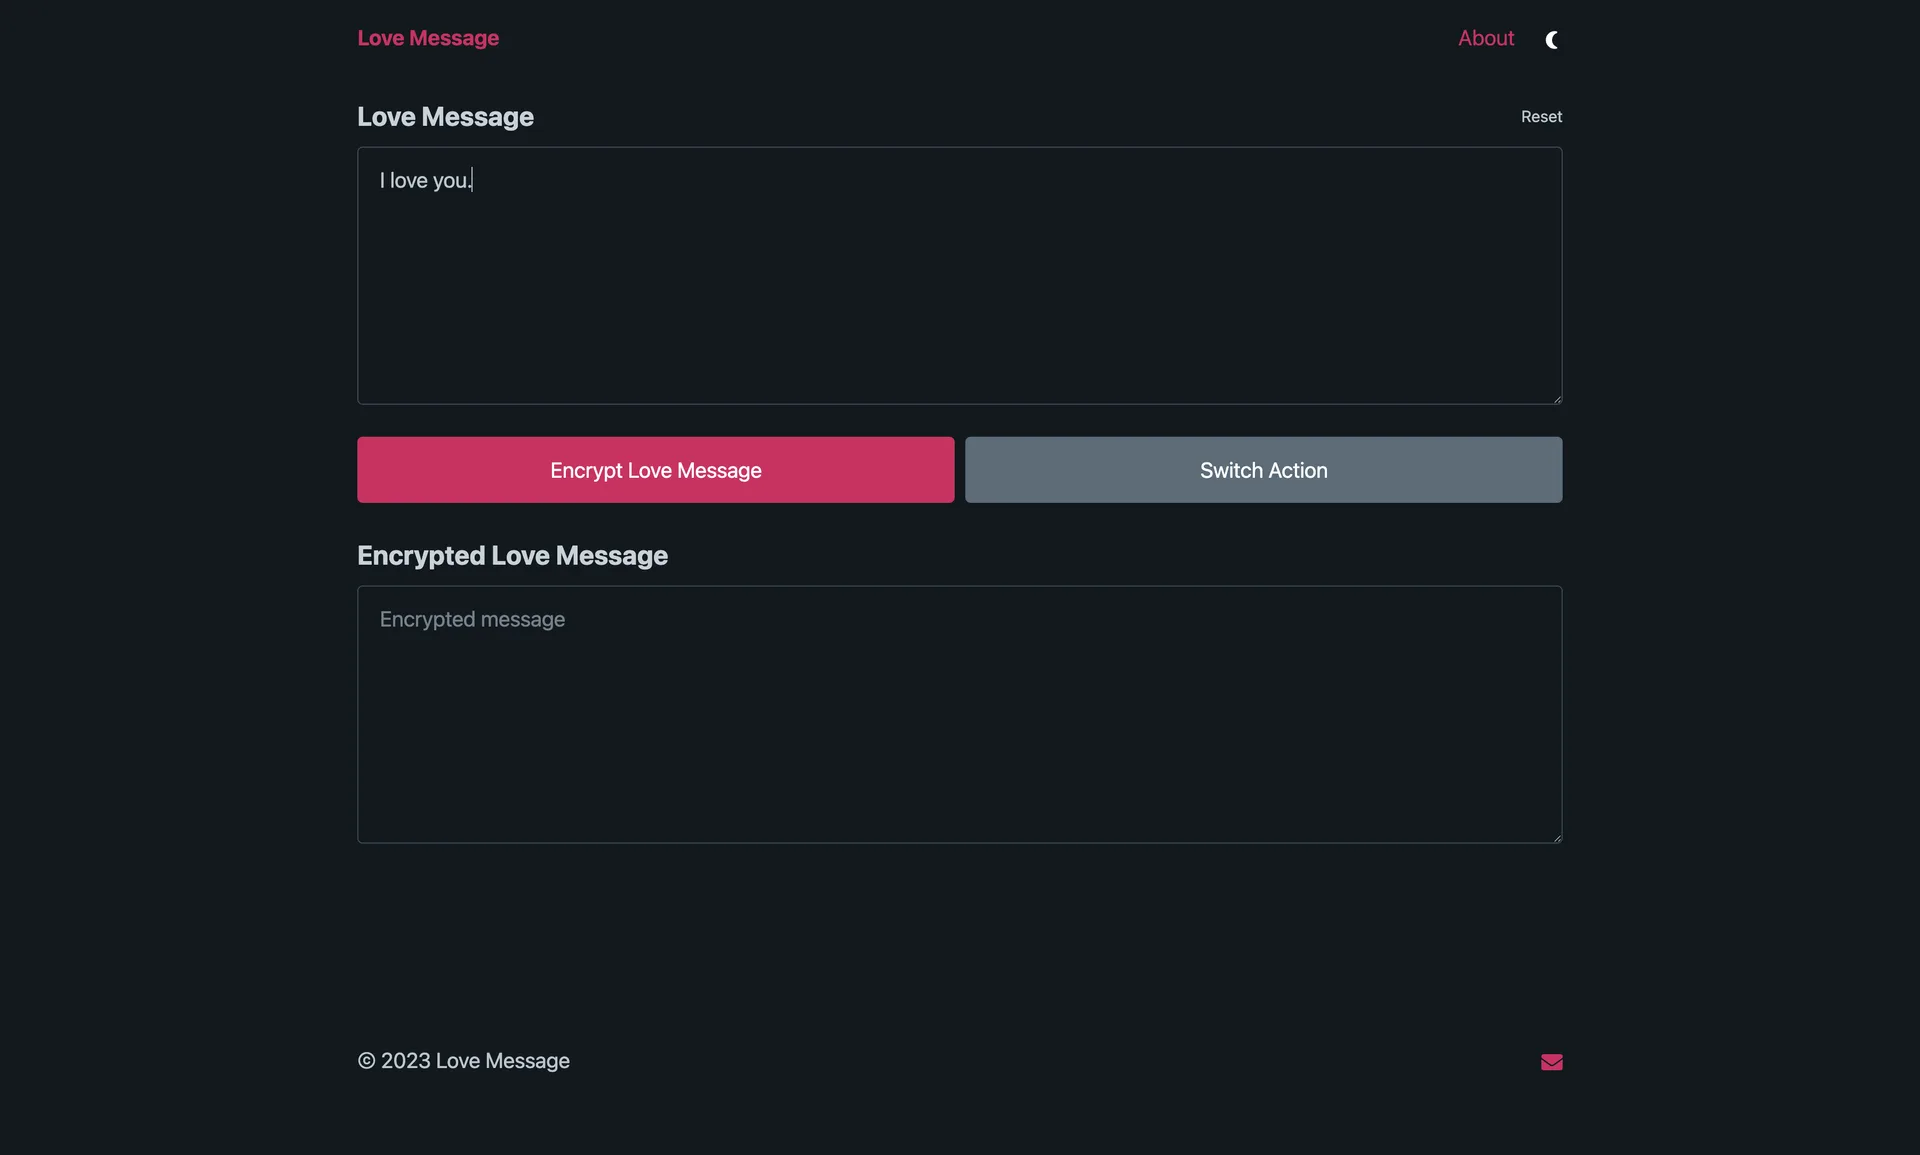
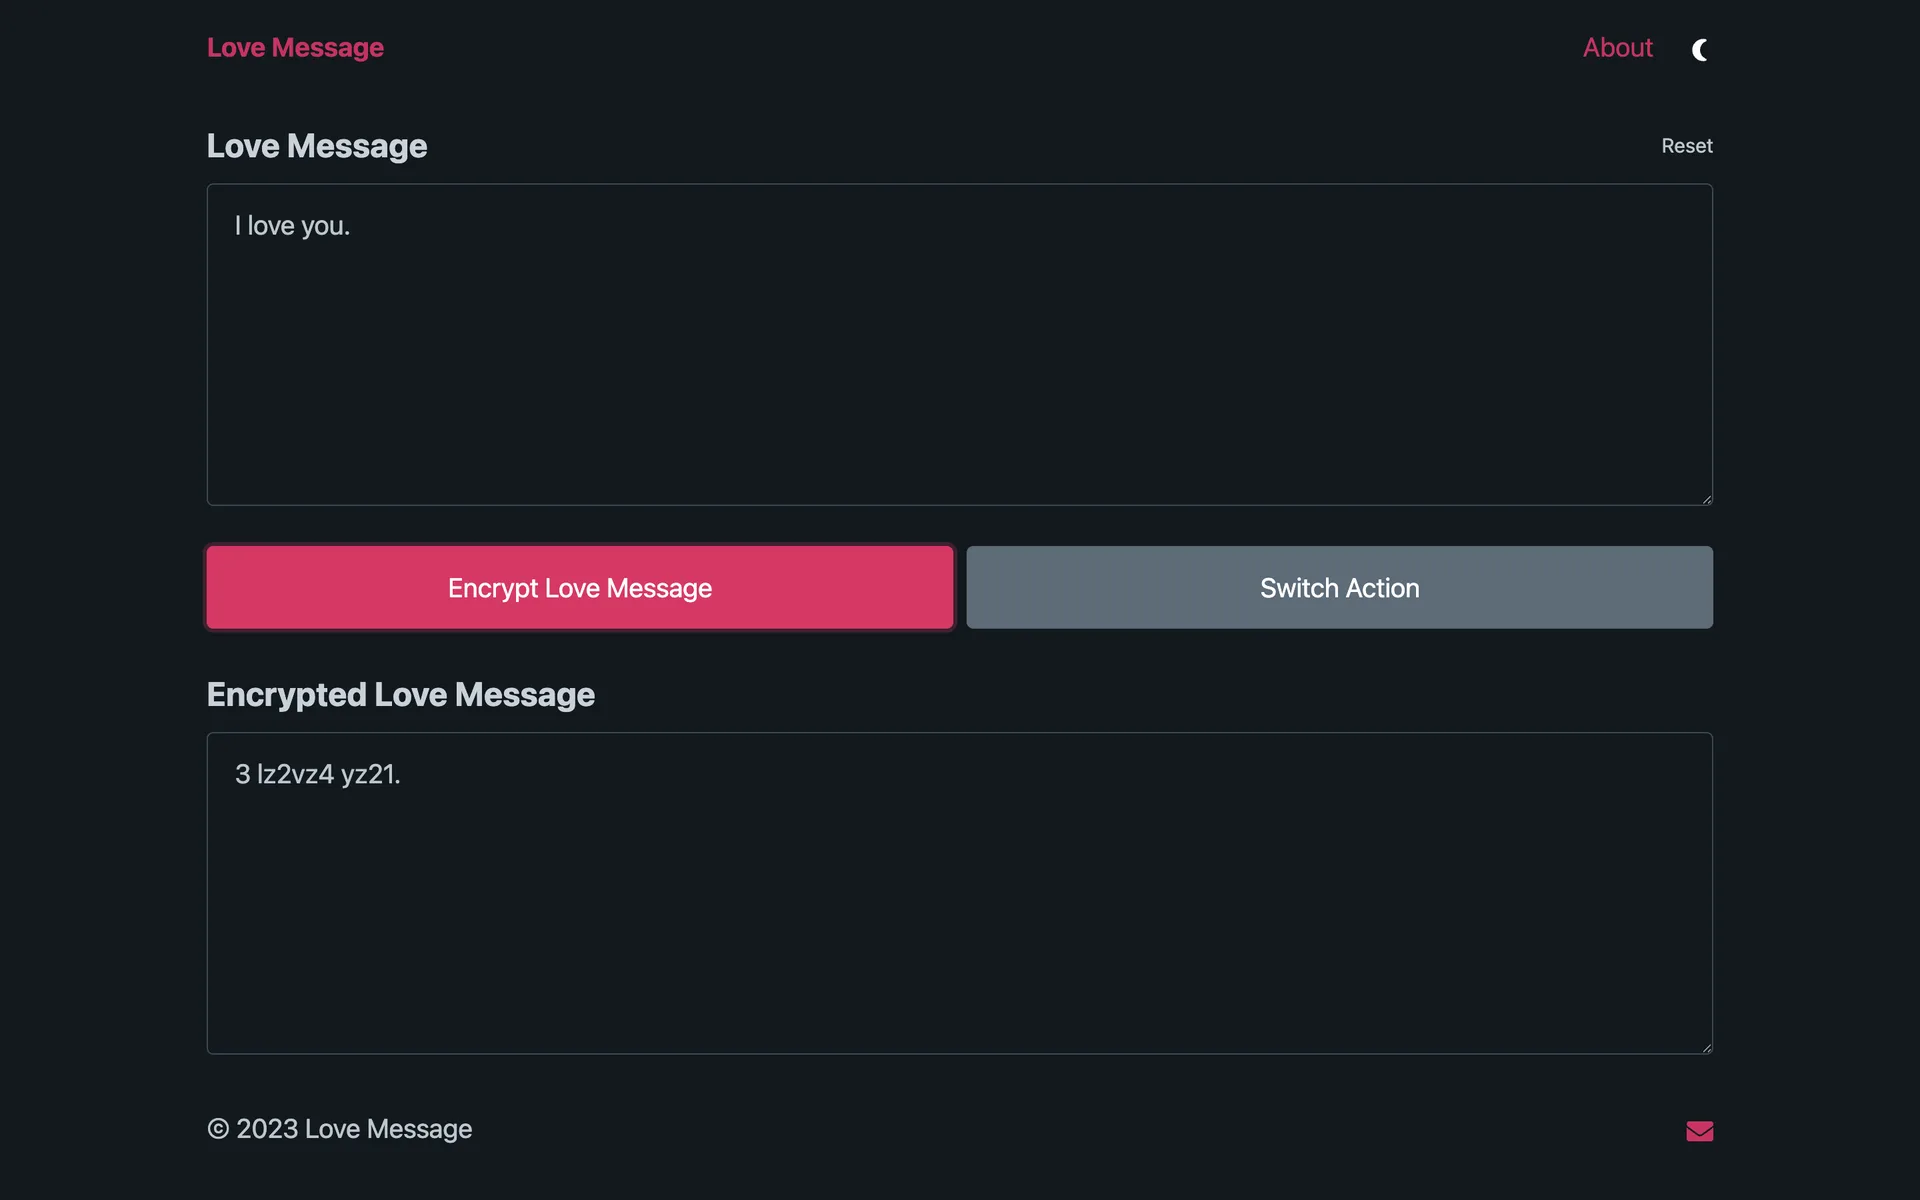
fix: correct Love Message gallery screenshots

diff --git a/src/constants/projects.ts b/src/constants/projects.ts
@@ -297,8 +297,8 @@ export const projects: Project[] = [
       },
       {
         src: "/images/projects/love-message/love-message-02-message.webp",
-        alt: "Love Message encryption form filled with I love you.",
-        label: "Message entered",
+        alt: "Love Message encrypted message output for I love you.",
+        label: "Encrypted message",
       },
       {
         src: "/images/projects/love-message/love-message-03-decrypt.webp",
